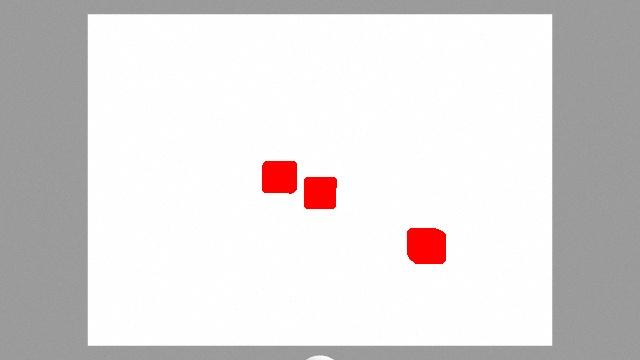
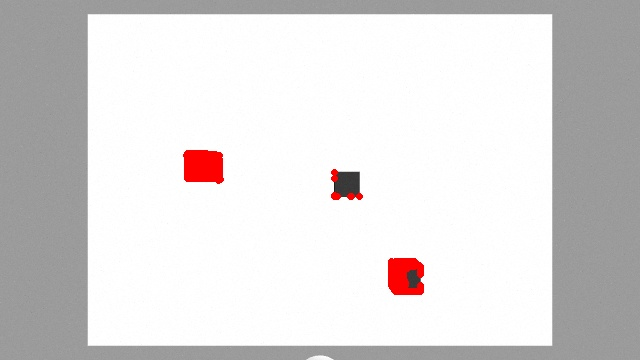
Update

Changed region(s): [[0.5938, 0.6111, 0.7188, 0.825], [0.4062, 0.4278, 0.5625, 0.5806], [0.2812, 0.3972, 0.375, 0.5194]]

diff --git a/ros_1/catkin_ws/src/my_package/src/test_dirty_detection.py b/ros_1/catkin_ws/src/my_package/src/test_dirty_detection.py
@@ -12,6 +12,8 @@ import cv2 as cv
 
 from utils import transform_pixels2camera, transform_points, publish_numpy_array
 
+from sklearn.cluster import MeanShift, estimate_bandwidth
+
 # OpenCV bridge for image messages
 from cv_bridge import CvBridge
 bridge = CvBridge()
@@ -60,6 +62,31 @@ def callback(image):
 	# Save the target points in the image
 	path_to_targets = os.path.join(OUTPUTS_DIR, 'dirty_targets.jpg')
 	cv.imwrite(path_to_targets, cv_image_rgb)
+
+	# Clustering
+	bandwidth = estimate_bandwidth(dirty_2d, quantile=0.2)
+	ms = MeanShift(bandwidth=bandwidth, bin_seeding=True)
+	ms.fit(dirty_2d)
+	labels = ms.labels_
+	cluster_centers = ms.cluster_centers_.astype(np.int32)
+	labels_unique = np.unique(labels)
+	n_clusters_ = len(labels_unique)
+
+	print("Number of estimated clusters : %d" % n_clusters_)
+	print('Cluster centers:')
+	print(cluster_centers)
+
+	# Visualize the cluster centers
+	image_message = rospy.wait_for_message('/image_raw', Image)
+	cv_image_bgr = bridge.imgmsg_to_cv2(image_message, desired_encoding='passthrough')
+	cv_image_rgb = cv.cvtColor(cv_image_bgr, cv.COLOR_BGR2RGB)
+	for p in cluster_centers:
+		cv.circle(cv_image_rgb, (p[0], p[1]), 2, (0, 0, 255), 2)
+	#plt.imshow(cv_image_rgb)
+	#plt.show()
+	cv.imwrite(os.path.join(OUTPUTS_DIR, 'dirty_clusters.jpg'), cv_image_rgb)
+	dirty_2d = cluster_centers
+
 	
 	# Getting camera info
 	camera_info = rospy.wait_for_message('/camera_info', CameraInfo)
@@ -88,7 +115,7 @@ def callback(image):
 		# Transforming 3D coordinates w.r.t. world: tf implementation
 		dirty2world = transform_points(points=dirty2camera, target_frame='world', source_frame='camera_link_optical')
 		# Rounding coordinates and deleting duplicates
-		dirty2world = np.unique(np.round(dirty2world, decimals=1), axis=0)
+		dirty2world = np.unique(np.round(dirty2world, decimals=2), axis=0)
 		print(f"Rounded 3D coordinates of pixels w.r.t. world frame ({dirty2world.shape}):\n", dirty2world)
 
 	except Exception as e:

diff --git a/ros_1/catkin_ws/src/my_package/scripts/robot_movement.py b/ros_1/catkin_ws/src/my_package/scripts/robot_movement.py
@@ -53,7 +53,8 @@ class MoveToClean:
 
             pose_goal.position.x = p[0]
             pose_goal.position.y = p[1]
-            pose_goal.position.z = p[2]+0.23
+            #pose_goal.position.z = p[2]+0.23
+            pose_goal.position.z = 0.6
 
             waypoints.append(pose_goal)
 
